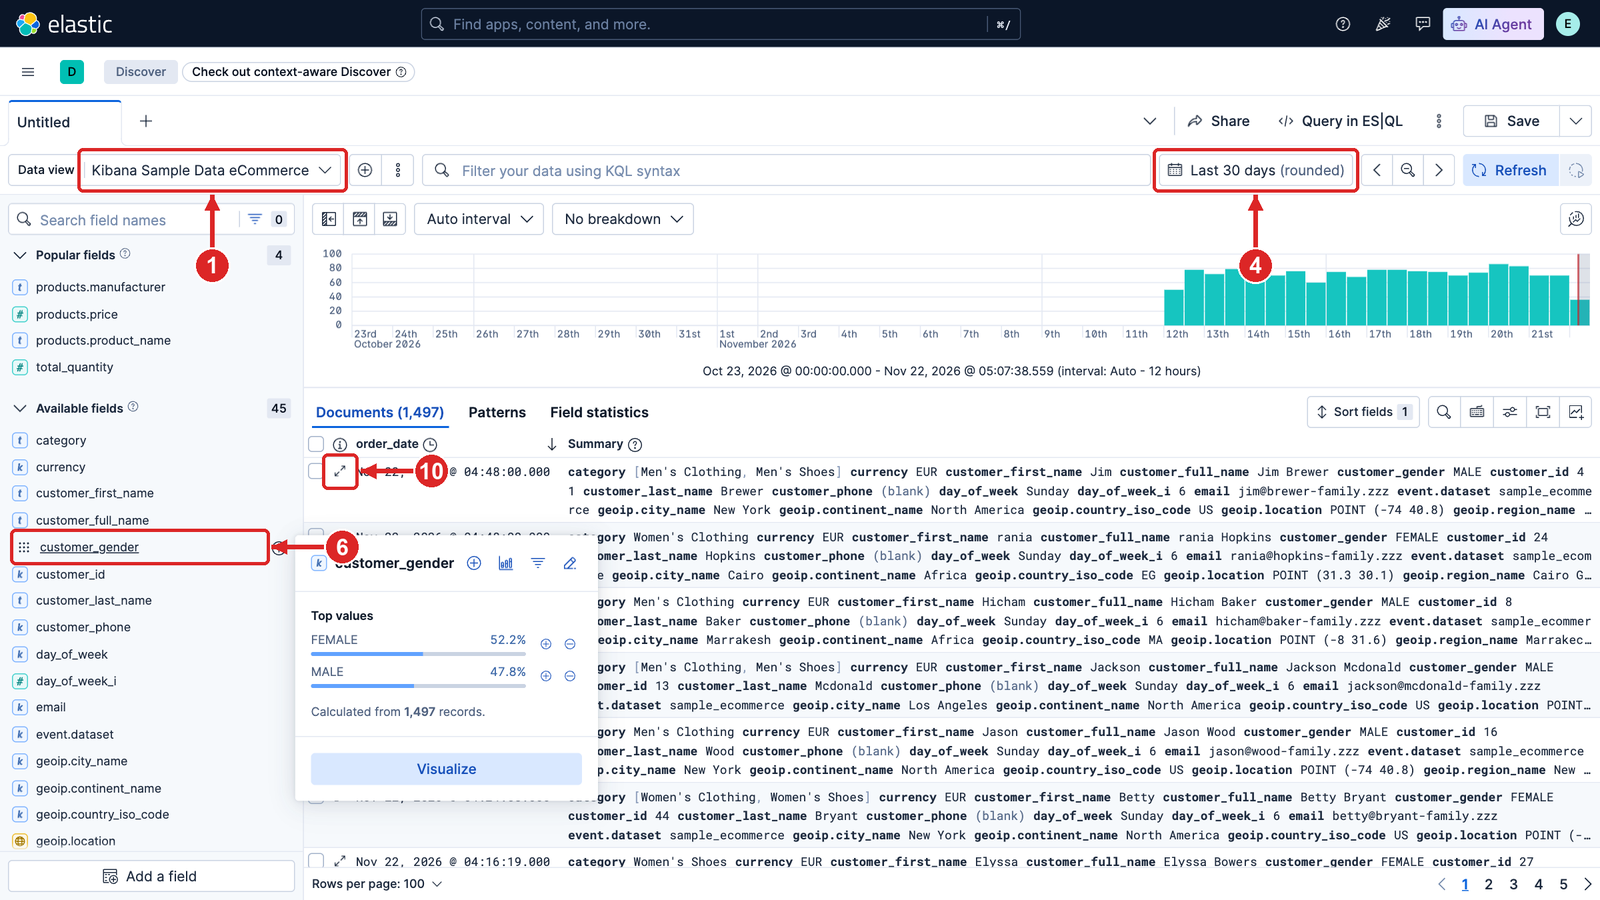
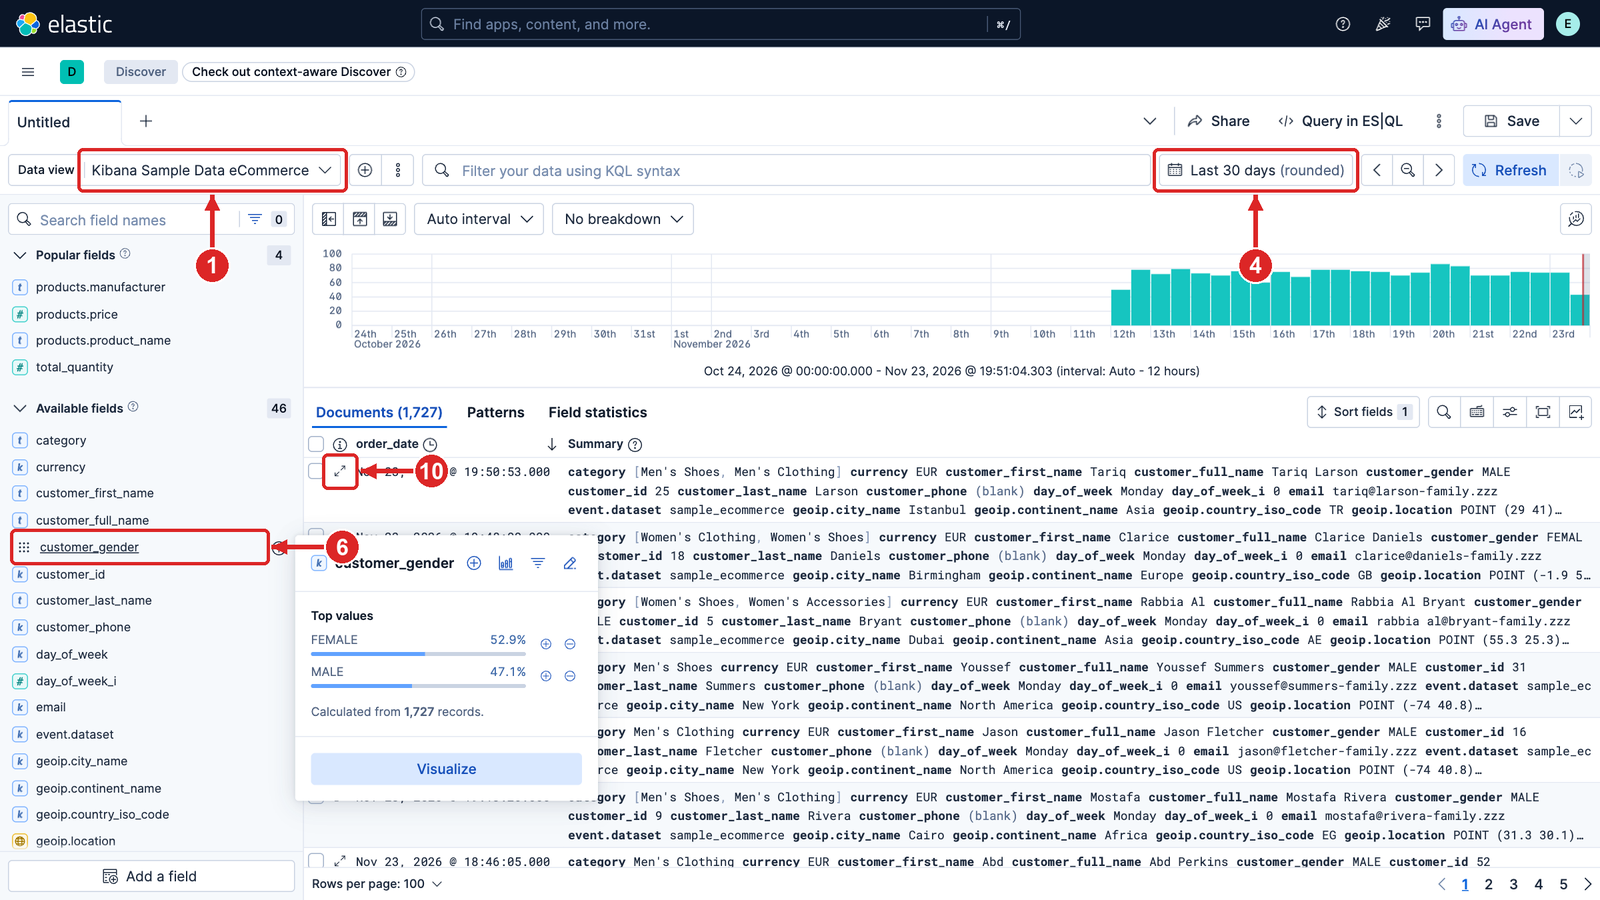
docs+test(LAB-04): question-led steps, numbered UI clicks, short notes; screenshots retaken
- "Bu lab ne öğretiyor?" as four items; KQL concepts as five one-line bullets
  (the syntax table is removed).
- Every step opens with a question; Kibana clicks as numbered lists; long
  explanations split into short bold items. Commands unchanged.
- Run numbers updated to this run (sample data dates shift daily):
  Last 30 days 1727 of 4675; main query 180; filter 196; table 150/438/794/25/575/975.

Checked: readme_komut_denetimi AYNI (5/5 command blocks; only the date line of
one expected output changed); link_kontrol 0; README rendered with the GitHub
markdown API and read page by page.
Test on 34.141.96.128 after LAB-04 teardown: README runner PASS=4 FAIL=0
(order count 4675, 2026-11-12..2026-12-12, replica 0 -> green).
UI steps 2-6 via Playwright in README order (shots_lab04.py discover):
Discover tour, KQL, two filters, save "Kadın 100 dolar üstü siparişler",
Inspect request; seven screenshots retaken. Saved search left installed.

diff --git a/labs/LAB-04-discover-kql/README.md b/labs/LAB-04-discover-kql/README.md
@@ -8,12 +8,10 @@
 
 ## Bu lab ne öğretiyor?
 
-Bir yöneticinin sorusu "son 30 günde 100 dolardan pahalı kadın müşteri siparişleri kaç?" gibidir. Discover
-bu soruyu kod yazmadan cevaplar: doğru data view, doğru zaman aralığı ve tek satırlık bir KQL sorgusu.
-
-Bu labda Kibana'nın örnek e-ticaret verisini yükleyecek, Discover'da gezinecek, soruları KQL'e çevirecek,
-aynı koşulu tıklayarak filtreyle kuracak, aramayı kaydedecek ve Kibana'nın arkada Elasticsearch'e gönderdiği
-Query DSL'i Inspect ile göreceğiz.
+- Kibana'nın örnek e-ticaret verisini yüklemek
+- Discover'da gezinmek: data view, zaman aralığı, field listesi
+- Soruyu KQL'e çevirmek; aynı koşulu filtreyle kurmak
+- Aramayı kaydetmek; arkada giden Query DSL'i Inspect ile görmek
 
 ![Discover'da araştırma sırası: data view, zaman, sorgu, sonuç, Inspect](../../assets/infographics/40-discover-arastirma-akisi.png)
 
@@ -43,18 +41,13 @@ Kibana: http://<IP>:5601   https://<host>-kibana.devopsatolyesi.com
 
 ---
 
-## Kavramlar: KQL
+## Kavramlar
 
-| Yazım | Anlamı | Örnek |
-|---|---|---|
-| `field : değer` | field bu değeri içerir | `customer_gender : "FEMALE"` |
-| `field : "iki kelime"` | ifade bu sırayla geçer | `category : "Women's Clothing"` |
-| `>`, `>=`, `<`, `<=` | sayı ve tarih aralığı | `taxful_total_price > 100` |
-| `and`, `or`, `not`, `( )` | koşulları birleştirir | `day_of_week : (Saturday or Sunday)` |
-| `*` | joker; `field : *` field'ı olanlar | `customer_first_name : Ed*` |
-
-KQL yalnız süzer: sayma, gruplama ve sıralama Lens, aggregation ve ES|QL'in işidir. Discover
-her sorguya zaman kutusunu da ekler: sonuç sayısı **sorgu + zaman aralığıdır**.
+- **KQL:** Discover'ın arama dili; yalnız süzer (sayma ve gruplama Lens, aggregation ve ES|QL'in işi)
+- **`field : değer`:** field bu değeri içerir: `customer_gender : "FEMALE"`; tırnaklı ifade sırayla arar
+- **`>`, `>=`, `<`, `<=`:** sayı ve tarih aralığı: `taxful_total_price > 100`
+- **`and`, `or`, `not`, `( )`:** koşulları birleştirir: `day_of_week : (Saturday or Sunday)`
+- **`*`:** joker: `customer_first_name : Ed*`; `field : *` field'ı olanlar
 
 ---
 
@@ -62,19 +55,24 @@ her sorguya zaman kutusunu da ekler: sonuç sayısı **sorgu + zaman aralığıd
 
 ### 1. Örnek e-ticaret verisini ekleyin
 
-Kibana ana sayfasında **Try sample data** (1) bağlantısına basın:
+**Soru: Discover'ı hangi veriyle deneyeceğiz?** Kibana'nın hazır örnek e-ticaret verisiyle: binlerce sipariş,
+tarihleri bugüne göre kaydırılmış.
+
+1. Kibana ana sayfasında **Try sample data** (1):
 
 ![Kibana sayfası: 1 Try sample data](../../assets/screenshots/LAB-04/01-sample-data-link.png)
 
-Açılan **Sample data** sekmesinde **Sample eCommerce orders** kartındaki **Install data** (2) düğmesine basın.
-Kurulum bitince düğme **View data** olur:
+2. **Sample eCommerce orders** kartında **Install data** (2). Kurulum bitince düğme **View data** olur:
 
 ![Örnek veri kartları: 2 Install data](../../assets/screenshots/LAB-04/02-sample-data-install.png)
 
-Kibana `kibana_sample_data_ecommerce` index'ini, aynı adlı data view'ı ve hazır panoları kurar. Kaç sipariş
-geldiğini ve hangi tarih aralığında olduğunu kontrol edin: `size=0` document getirmez, yalnız özet döner;
-`track_total_hits` sayıyı tam verir; `min` / `max` en eski ve en yeni `order_date`'i bulur; `date +%F` bugünün
-tarihidir:
+Kibana `kibana_sample_data_ecommerce` index'ini, aynı adlı data view'ı ve hazır panoları kurar.
+
+**Kaç sipariş geldi, hangi tarihler?**
+
+- **`size=0`:** document getirmez, yalnız özet döner
+- **`track_total_hits`:** sayıyı tam verir
+- **`min` / `max`:** en eski ve en yeni `order_date`; `date +%F` bugünün tarihi
 
 ```bash
 curl -s -u elastic:'DevOps2026!' 'http://127.0.0.1:9200/kibana_sample_data_ecommerce/_search?size=0&filter_path=hits.total.value,aggregations' \
@@ -87,11 +85,11 @@ Beklenen çıktı:
 
 ```text
 siparis: 4675  ilk: 2026-11-12  son: 2026-12-12
-2026-11-22
+2026-11-23
 ```
 
-Kibana örnek veriyi 1 replica ile açar. Tek node'lu ana cluster'da replica'nın konacağı ikinci node yoktur, cluster
-yellow kalır. Replica'yı 0'a çekin:
+**Replica'yı 0'a çekin.** Kibana örnek veriyi 1 replica ile açar; tek node'da replica'yı koyacak yer yok, cluster
+yellow kalır:
 
 ```bash
 curl -s -u elastic:'DevOps2026!' -X PUT 'http://127.0.0.1:9200/kibana_sample_data_ecommerce/_settings' -H 'Content-Type: application/json' -d '{"index.number_of_replicas": 0}'; echo
@@ -105,20 +103,21 @@ Beklenen çıktı:
 {"status":"green"}
 ```
 
-Örnek verinin tarihleri yükleme gününe göre kaydırılır. Bu koşuda veri 2026-11-22'de yüklendi: ilk sipariş 10
-gün önce, son sipariş 20 gün sonra. Discover'da **Last 30 days** yalnız geçmiş kısmı gösterir (bu koşuda 4675'in
-1497'si); sayılar yükleme gününe göre sizde farklıdır.
+**Tarihler kaydırılır:** veri yükleme gününe göre 10 gün geriye, 20 gün ileriye yayılır. **Last 30 days** yalnız
+geçmiş kısmı gösterir (bu koşuda 4675'in 1727'si); sayılar sizde farklıdır.
 
 ### 2. Discover'da gezinin
 
-**Discover**'ı açın. **Data view** listesinden **Kibana Sample Data eCommerce**'i (1), zaman kutusundan
-**Last 30 days**'i (4) seçin. Soldaki field listesinde (6) `customer_gender`'a tıklayın: en sık değerler ve
-oranları görünür. Bir satırın başındaki genişletme düğmesi (10) document'in bütün field'larını açar:
+**Soru: Discover ekranında nereye bakarız?**
+
+1. **Discover**'ı açın; **Data view**: **Kibana Sample Data eCommerce** (1)
+2. Zaman kutusu: **Last 30 days** (4)
+3. Field listesinde (6) `customer_gender`'a tıklayın: en sık değerler ve oranları görünür
+4. Bir satırın başındaki genişletme simgesi (10) document'in bütün field'larını açar
 
 ![Discover: 1 data view, 4 zaman, 6 field listesi, 10 document açma](../../assets/screenshots/LAB-04/03-discover-tur.png)
 
-Üstteki sayı, seçili zaman aralığındaki document sayısıdır; histogram da aynı document'leri güne göre
-sayar.
+Üstteki sayı seçili zaman aralığındaki document sayısıdır; histogram aynı document'leri güne göre sayar.
 
 ### 3. Soruyu KQL'e çevirin
 
@@ -134,32 +133,35 @@ customer_gender : "FEMALE" and taxful_total_price > 100
 
 ![Discover KQL: 2 sorgu, 8 document sayısı](../../assets/screenshots/LAB-04/04-discover-kql.png)
 
-Sorgunun parçaları: `customer_gender : "FEMALE"` bir `keyword` field'ında tam değer, `taxful_total_price > 100`
-sayı aralığı, `and` ikisinin birlikte sağlanması. "Son 30 gün" sorguda değil zaman kutusundadır.
+- **`customer_gender : "FEMALE"`:** `keyword` field'ında tam değer
+- **`taxful_total_price > 100`:** sayı aralığı; **`and`** ikisi birlikte
+- **"Son 30 gün"** sorguda değil, zaman kutusunda
 
 Aynı yöntemle birkaç soru daha (zaman aralığı yine **Last 30 days**):
 
 | Soru | KQL | Document (bu koşuda) |
 |---|---|---:|
-| Ürün adında "jacket" geçen siparişler | `products.product_name : jacket` | 130 |
-| Women's Shoes kategorisi (tam değer) | `category.keyword : "Women's Shoes"` | 377 |
-| Tutarı 50 ile 100 dolar arası | `taxful_total_price >= 50 and taxful_total_price <= 100` | 676 |
-| Adı "Ed" ile başlayan müşteriler | `customer_first_name.keyword : Ed*` | 23 |
-| Hafta sonu siparişleri | `day_of_week : (Saturday or Sunday)` | 440 |
-| Men's Clothing içermeyen siparişler | `not category.keyword : "Men's Clothing"` | 835 |
+| Ürün adında "jacket" geçen siparişler | `products.product_name : jacket` | 150 |
+| Women's Shoes kategorisi (tam değer) | `category.keyword : "Women's Shoes"` | 438 |
+| Tutarı 50 ile 100 dolar arası | `taxful_total_price >= 50 and taxful_total_price <= 100` | 794 |
+| Adı "Ed" ile başlayan müşteriler | `customer_first_name.keyword : Ed*` | 25 |
+| Hafta sonu siparişleri | `day_of_week : (Saturday or Sunday)` | 575 |
+| Men's Clothing içermeyen siparişler | `not category.keyword : "Men's Clothing"` | 975 |
 
-Ana sorgu bu koşuda **156** document buldu.
+Ana sorgu bu koşuda **180** document buldu.
 
-- Metin field'ı (`products.product_name`) kelimelere bölünmüştür; `jacket` adında "jacket" geçen ürünleri
-  bulur. `keyword` field'ı (`category.keyword`) bölünmez; değer birebir yazılır.
-- `not` field'ı hiç olmayan document'leri de getirir; sonucu bir document açarak doğrulayın.
-- Joker (`Ed*`) küçük veride rahattır; büyük index'te baştaki joker (`*windows`) pahalıdır.
+- **Metin field'ı** (`products.product_name`) kelimelere bölünür; `jacket` adında geçen ürünleri bulur.
+  **`keyword` field'ı** (`category.keyword`) bölünmez; değer birebir yazılır.
+- **`not`** field'ı hiç olmayan document'leri de getirir; bir document açarak doğrulayın.
+- **Joker** (`Ed*`) küçük veride rahattır; baştaki joker (`*windows`) büyük index'te pahalıdır.
 
 ### 4. Aynı koşul, tıklayarak: filtre
 
-Arama çubuğunu temizleyin. Filtre ekleme düğmesine (3) basın; **Field** `customer_gender`, **Operator** `is`,
-**Value** `FEMALE` seçip **Add filter**'a basın. İkinci filtre: `taxful_total_price`, `is between`, alt sınır
-`100`, üst sınır boş:
+**Soru: Aynı koşulu yazmadan, tıklayarak kurabilir miyiz?**
+
+1. Arama çubuğunu temizleyin
+2. Filtre ekleme simgesi (3): **Field** `customer_gender`, **Operator** `is`, **Value** `FEMALE`, **Add filter**
+3. İkinci filtre: `taxful_total_price`, `is between`, alt sınır `100`, üst sınır boş
 
 ![Filtre: 3 filtre ekleme; field, operator, value](../../assets/screenshots/LAB-04/05-filtre.png)
 
@@ -167,41 +169,46 @@ Filtreler çubuğun altında birer etiket olur. Document sayısını Adım 3'tek
 
 | Yol | Koşul | Document (bu koşuda) |
 |---|---|---:|
-| KQL (Adım 3) | `taxful_total_price > 100` | 156 |
-| Filtre | `taxful_total_price: ≥ $100` | 168 |
+| KQL (Adım 3) | `taxful_total_price > 100` | 180 |
+| Filtre | `taxful_total_price: ≥ $100` | 196 |
 
-Fark tutarı tam 100 olan siparişlerdir: **is between** alt sınırı dahil eder (`>= 100`), KQL'deki `> 100`
-etmez. Etikete tıklayıp filtreyi geçici olarak kapatabilir (**Temporarily disable**) ya da tersine
-çevirebilirsiniz (**Exclude results**):
+- **Fark neden?** Tutarı tam 100 olan siparişler: **is between** alt sınırı dahil eder (`>= 100`), KQL'deki `> 100` etmez.
+- **Etiket menüsü:** filtreyi geçici kapatın (**Temporarily disable**) ya da tersine çevirin (**Exclude results**):
 
 ![Filtre etiketleri: iki filtre ve document sayısı](../../assets/screenshots/LAB-04/06-filtre-etiket.png)
 
 ### 5. Aramayı kaydedin
 
-Sağ üstte **Save** düğmesine basın; açılan pencerede başlığa (12) `Kadın 100 dolar üstü siparişler` yazıp
-**Save and add to library** ile kaydedin.
-Kaydedilen arama (Discover session) data view'ı, sorguyu ve filtreleri tutar; **Open** ile yeniden açılır ve
-panoya eklenebilir:
+**Soru: Bu aramayı yarın yeniden nasıl açarız?** Kaydederek.
+
+1. Sağ üstte **Save**
+2. Başlık (12): `Kadın 100 dolar üstü siparişler`
+3. **Save and add to library**
+
+Kaydedilen arama (Discover session) data view'ı, sorguyu ve filtreleri tutar; **Open** ile açılır, panoya eklenebilir:
 
 ![Discover Save: 12 başlık; altta Store time with Discover session](../../assets/screenshots/LAB-04/07-discover-kaydet.png)
 
-**Store time with Discover session** anahtarı varsayılan olarak kapalıdır: kayıtlı arama açıldığında o anki
-zaman kutusu geçerlidir. Açarsanız seçili zaman aralığı da aramayla saklanır.
+**Store time with Discover session** varsayılan olarak kapalıdır: kayıtlı arama açılınca o anki zaman kutusu geçerlidir.
+Açarsanız zaman aralığı da aramayla saklanır.
 
 ### 6. Arkada ne gidiyor? Inspect
 
-Kibana KQL'i ve filtreleri Elasticsearch'e Query DSL olarak gönderir. Görmek için sağ üstteki **⋮**
-menüsünden **Inspect tab** (13):
+**Soru: Kibana Elasticsearch'e ne gönderiyor?** KQL ve filtreler Query DSL'e çevrilir.
+
+1. Sağ üstteki **⋮** menüsü → **Inspect tab** (13)
 
 ![Discover menüsü: ⋮ düğmesi, 13 Inspect tab](../../assets/screenshots/LAB-04/08-discover-inspect-menu.png)
 
-Açılan **Inspector**'da **Request** (14) sekmesi gönderilen isteği (15) gösterir:
+2. **Inspector**'da **Request** (14): gönderilen istek (15)
 
 ![Inspector: 14 Request sekmesi, 15 gönderilen Query DSL](../../assets/screenshots/LAB-04/09-discover-inspect.png)
 
-Filtreler bir `bool` sorgusunun `filter` bölümüne dönüşmüştür: zaman kutusu `order_date` üzerinde bir `range`,
-`customer_gender` filtresi bir `match_phrase` (kelimeleri yazıldığı sırayla arar), fiyat filtresi bir `range`
-(`gte: 100`: 100 ve üstü).
+Filtreler bir `bool` sorgusunun `filter` bölümüne dönüştü:
+
+- **Zaman kutusu:** `order_date` üzerinde `range`
+- **`customer_gender`:** `match_phrase` (kelimeleri yazıldığı sırayla arar)
+- **Fiyat:** `range` (`gte: 100`: 100 ve üstü)
 
 <details>
 <summary><strong>Alıştırma: soru → KQL</strong></summary>
